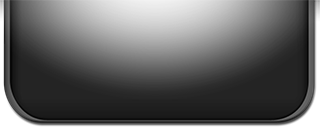
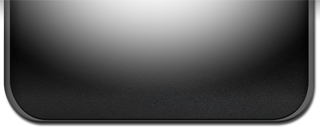
Styling adjustments
+ Updated registration arrow to include a vertical line
+ Removes the middle line from the dial slices
+ Updates the drawer background with the gritty texture
+ Adds an extra angle tick around the dial

Changed region(s): [[0.8125, 0.0709, 0.9688, 0.4488], [0.0312, 0.1181, 0.1562, 0.4961]]

diff --git a/GDIDial/GDIDial/GrillGuideDialSlice.m b/GDIDial/GDIDial/GrillGuideDialSlice.m
@@ -19,24 +19,9 @@
     self = [super initWithRadius:r width:width];
     if (self) {
         
-        CAShapeLayer *centerLine = [CAShapeLayer layer];
-        centerLine.strokeColor = [[UIColor colorWithWhite:1.f alpha:.75f] CGColor];
-        centerLine.lineWidth = 1.f;
-        
-        CGMutablePathRef path = CGPathCreateMutable();
-        
-        CGPathMoveToPoint(path, NULL, 0, 0);
-        CGPoint endPoint = cartesianCoordinateFromPolar(self.radius-kRadiusOffset, M_PI*.5);
-        CGPathAddLineToPoint(path, NULL, endPoint.x, endPoint.y);
-        
-        centerLine.path = path;
-        CGPathRelease(path);
-        
-        [self.layer insertSublayer:centerLine atIndex:0];
-        
         CAShapeLayer *arrow = [CAShapeLayer layer];
         arrow.fillColor = [[UIColor blackColor] CGColor];
-        path = CGPathCreateMutable();
+        CGMutablePathRef path = CGPathCreateMutable();
         
         CGPoint arrowOrigin = CGPointMake(0, self.radius-kArrowSize.height-kRadiusOffset);
         CGPathMoveToPoint(path, NULL, arrowOrigin.x, arrowOrigin.y);

diff --git a/GDIDial/GDIDial/GrillGuideDialView.m b/GDIDial/GDIDial/GrillGuideDialView.m
@@ -33,7 +33,7 @@
     CGFloat radius = self.frame.size.width*.5;
     
     CGContextBeginPath(context);
-    for (int i=0; i<numTicks; i++) {
+    for (int i=0; i<=numTicks; i++) {
         
         CGPoint startPoint = cartesianCoordinateFromPolar(radius - kTickSize, currentAngle);
         CGPoint endPoint = cartesianCoordinateFromPolar(radius, currentAngle);
@@ -59,7 +59,7 @@
     // draw inner ticks    
     CGContextBeginPath(context);
     currentAngle = 0;
-    for (int i=0; i<numTicks; i++) {
+    for (int i=0; i<=numTicks; i++) {
 
         CGPoint startPoint = cartesianCoordinateFromPolar(radius - kRingSize - kTickSize*2, currentAngle);
         CGPoint endPoint = cartesianCoordinateFromPolar(radius - kRingSize - kTickSize, currentAngle);

diff --git a/GDIDial/GDIDial/GDIViewController.m b/GDIDial/GDIDial/GDIViewController.m
@@ -37,10 +37,9 @@
     dialViewController.delegate = self;
     dialViewController.dialRadius = kDialRadius;
     dialViewController.dialPosition = GDIDialPositionBottom;
-    dialViewController.dialRegistrationViewRadius = 195.f;
+    dialViewController.dialRegistrationViewRadius = 183.f;
     dialViewController.view.frame = CGRectMake(self.dialContainerView.frame.size.width * .5 - kDialRadius, -kDialRadius*2 - 44.f + self.dialContainerView.frame.size.height, kDialRadius*2, kDialRadius*2);
     [self.dialContainerView addSubview:dialViewController.view];
-//    [self.view insertSubview:dialViewController.view atIndex:0];
 }
 
 - (void)viewDidUnload
